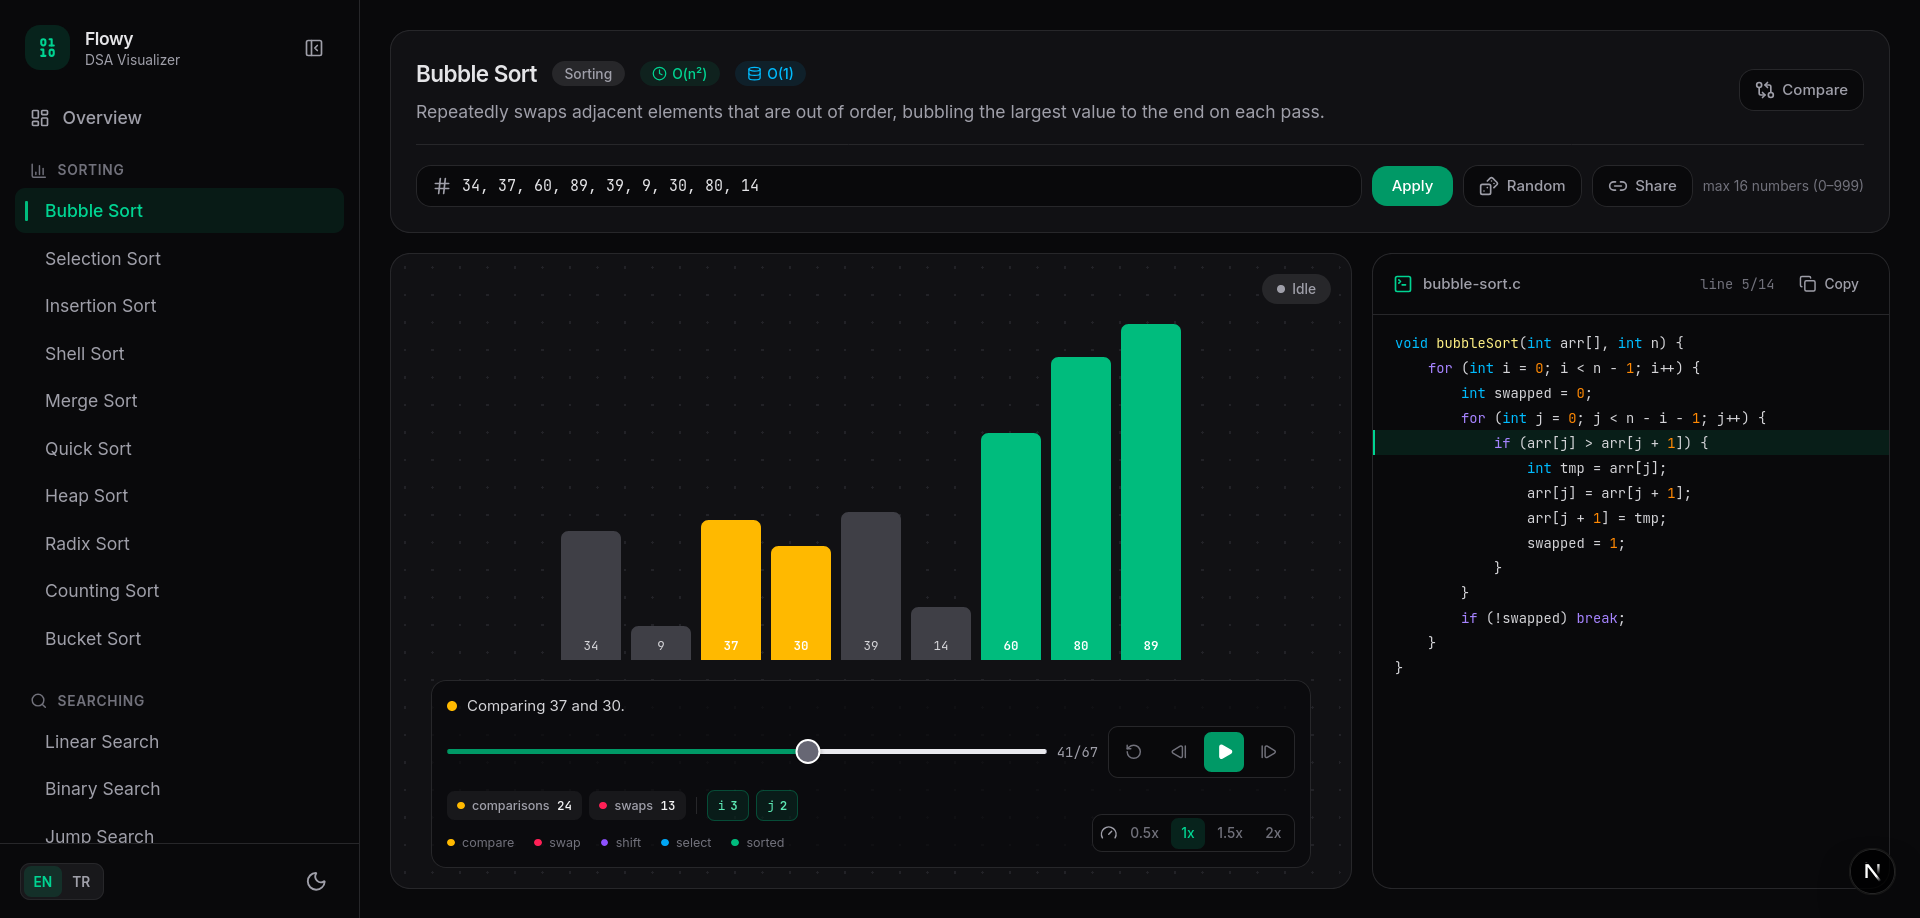
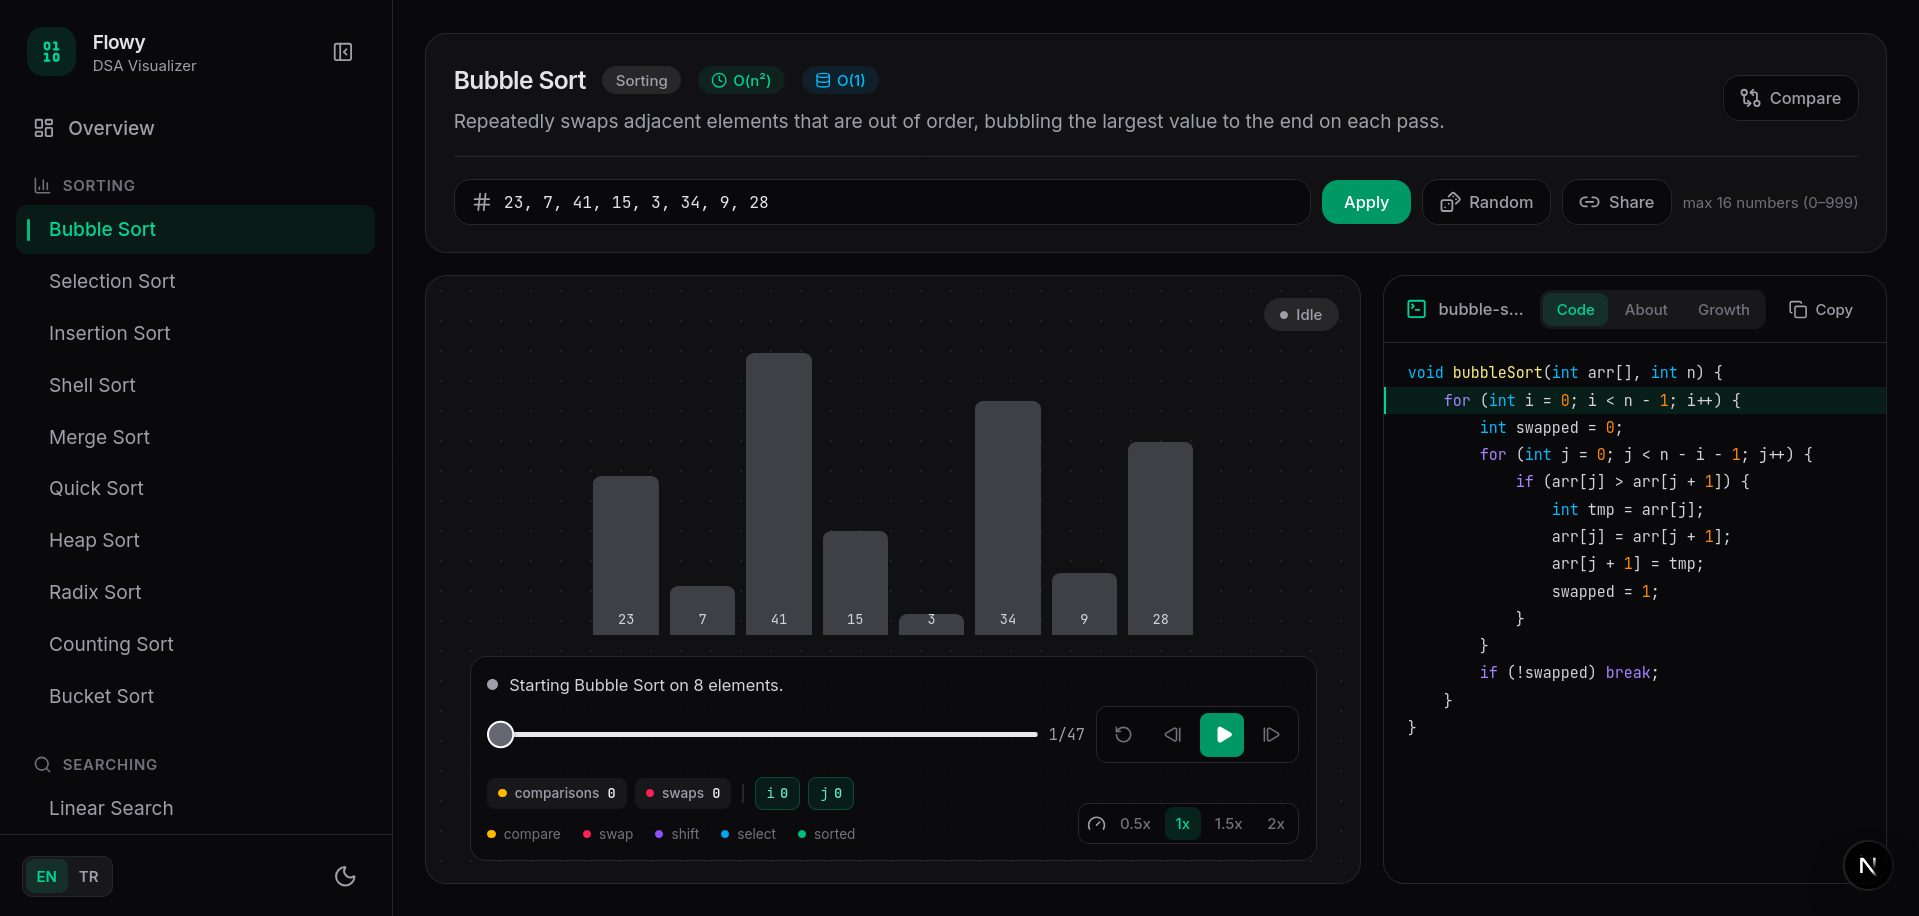
docs: rebrand Flowy to Algorhythm across metadata, UI, and package name

diff --git a/components/sidebar-nav.tsx b/components/sidebar-nav.tsx
@@ -33,7 +33,7 @@ export default function SidebarNav({ onNavigate, onCollapse }: SidebarNavProps) 
           </span>
           <span className="leading-tight">
             <span className="block text-sm font-semibold tracking-tight">
-              Flowy
+              Algorhythm
             </span>
             <span className="block text-[11px] text-zinc-500 dark:text-zinc-400">
               {t("brand.tagline")}

diff --git a/app/layout.tsx b/app/layout.tsx
@@ -15,8 +15,8 @@ const jetbrainsMono = JetBrains_Mono({
 
 export const metadata: Metadata = {
   title: {
-    default: "Flowy — DSA Visualizer",
-    template: "%s · Flowy",
+    default: "Algorhythm — DSA Visualizer",
+    template: "%s · Algorhythm",
   },
   description:
     "An interactive platform for visualizing data structures and algorithms — sorting, graphs, dynamic programming, and backtracking.",

diff --git a/components/app-shell.tsx b/components/app-shell.tsx
@@ -51,7 +51,7 @@ function Shell({ children }: { children: React.ReactNode }) {
           <span className="flex size-7 items-center justify-center rounded-lg bg-emerald-500/15 text-emerald-600 dark:text-emerald-400">
             <Binary className="size-4" />
           </span>
-          Flowy
+          Algorhythm
         </span>
         <div className="ml-auto flex items-center gap-2">
           <LangToggle />

diff --git a/README.md b/README.md
@@ -1,8 +1,13 @@
-# Flowy - DSA Visualizer
+# Algorhythm
+> DSA Visualizer gibi bir şey yaz
 
-An interactive platform for learning data structures and algorithms by watching
+Interactive platform for learning data structures and algorithms by watching
 them run — step by step, with the corresponding C code line highlighted as it
 executes.
+
+**[View the live application here.](algorhythm-batuhanmeral.vercel.app)**
+
+## Algorithms
 
 **58 algorithms · 10 categories · every page statically generated**
 
@@ -69,7 +74,7 @@ npm run lint
 | *Overview* |
 | <img src="docs/bubble_sort.png" alt="Bubble Sort visualization" width="850"> |
 | *Bubble Sort — step player, stat counters and C code highlighting* |
-| <img src="docs/n_queens.png" alt="N-Queens backtracking visualization" width="850"> |
+| <img src="docs/linked_list.png" alt="Linked List visualization" width="850"> |
 | *N-Queens — backtracking on the board* |
 
 ## License
